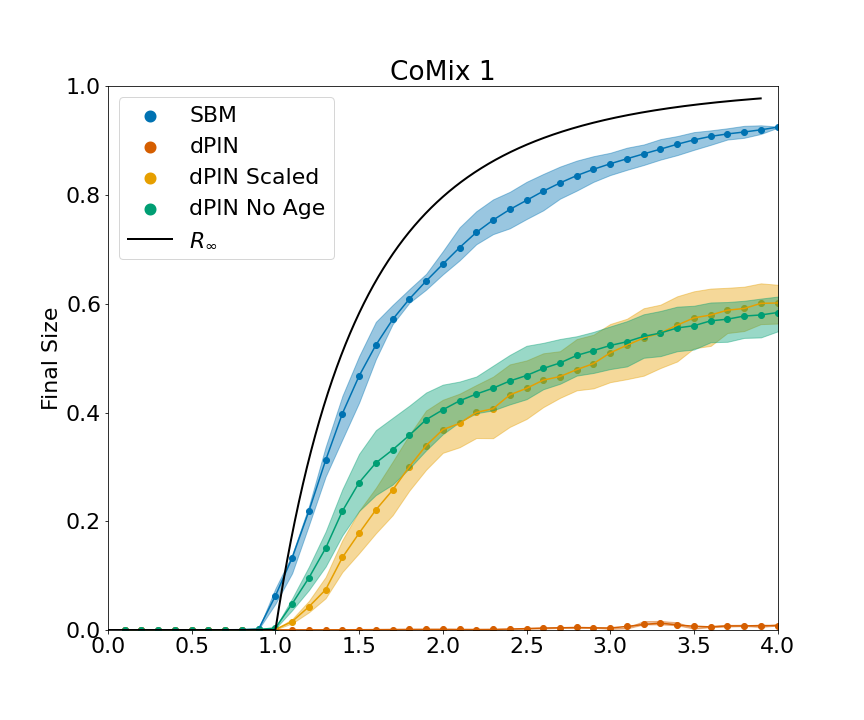
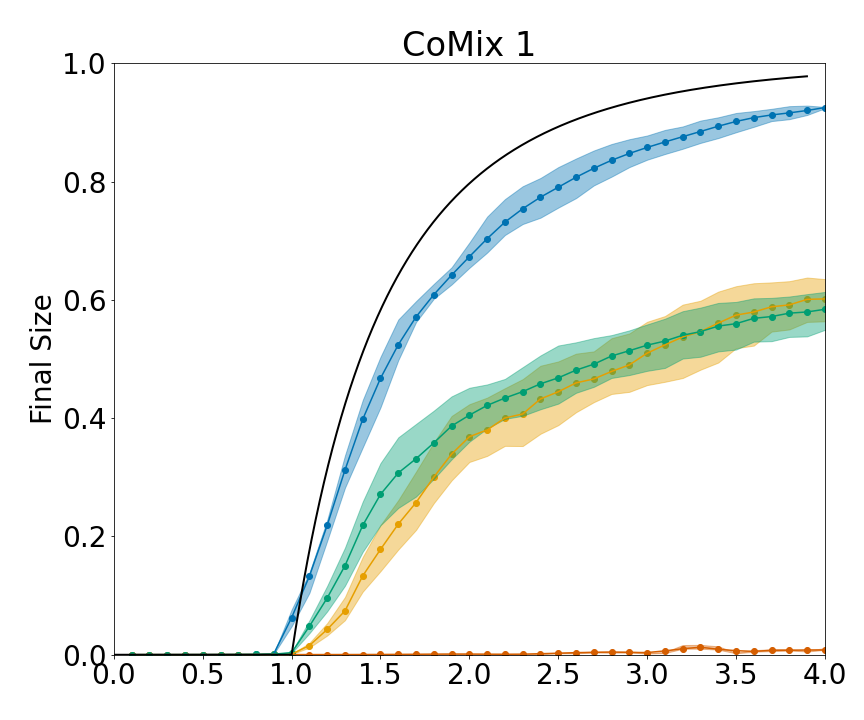
26 no age sims

diff --git a/_final_sellke_noage_c1.py b/_final_sellke_noage_c1.py
@@ -51,10 +51,10 @@ taus = [[np.arange(0.2,0.605,0.005)]]
 # taus = [[np.arange(0.09,0.4,0.005)]]
 # taus = [[np.arange(0.05,0.3,0.005)]]
 
-## sc
-taus = [[[0.0965]]]
-# taus = [[[0.1094]]]
-# taus = [[[0.1932]]]
+# ## sc
+# taus = [[[0.0965]]]
+# # taus = [[[0.1094]]]
+# # taus = [[[0.1932]]]
 
 for i, data in enumerate(datas):
     for j, model in enumerate(models):
@@ -72,7 +72,7 @@ for i, data in enumerate(datas):
         #     result['zeros'].append(len([a for a in network['degrees'] if a == 0]))
         #     result['avg_degree'].append(np.mean([a for a in network['degrees']]))
         #     result['max_degree'].append(max([a for a in network['degrees']]))
-        result = nd_p.big_sellke_sims(partitions=partitions,contact_matrix=contact_matrix,network_params=params,n=n,dist_type=model,num_networks=20,iterations=iters, taus=taus[i][j],prop_infec=10/n, scaling=scales[j],secondary_cases=True)
-        with open(f'../output_data/simulations/big/sellke/SIR/last_4_{data}_{model}_{scales[j]}_noage_sc.json','w') as f:
+        result = nd_p.big_sellke_sims(partitions=partitions,contact_matrix=contact_matrix,network_params=params,n=n,dist_type=model,num_networks=3,iterations=iters, taus=taus[i][j],prop_infec=10/n, scaling=scales[j])
+        with open(f'../output_data/simulations/big/sellke/SIR/26_{data}_{model}_{scales[j]}_noage.json','w') as f:
             json.dump(result, f)
 print('done')

diff --git a/_final_sellke_noage_c2.py b/_final_sellke_noage_c2.py
@@ -51,10 +51,10 @@ scales = ['fit1']
 taus = [[np.arange(0.09,0.4,0.005)]]
 # taus = [[np.arange(0.05,0.3,0.005)]]
 
-## sc
-# taus = [[[0.0965]]]
-taus = [[[0.1094]]]
-# taus = [[[0.1932]]]
+# ## sc
+# # taus = [[[0.0965]]]
+# taus = [[[0.1094]]]
+# # taus = [[[0.1932]]]
 
 for i, data in enumerate(datas):
     for j, model in enumerate(models):
@@ -72,7 +72,7 @@ for i, data in enumerate(datas):
         #     result['zeros'].append(len([a for a in network['degrees'] if a == 0]))
         #     result['avg_degree'].append(np.mean([a for a in network['degrees']]))
         #     result['max_degree'].append(max([a for a in network['degrees']]))
-        result = nd_p.big_sellke_sims(partitions=partitions,contact_matrix=contact_matrix,network_params=params,n=n,dist_type=model,num_networks=20,iterations=iters, taus=taus[i][j],prop_infec=10/n, scaling=scales[j],secondary_cases=True)
-        with open(f'../output_data/simulations/big/sellke/SIR/last_4_{data}_{model}_{scales[j]}_noage5_sc.json','w') as f:
+        result = nd_p.big_sellke_sims(partitions=partitions,contact_matrix=contact_matrix,network_params=params,n=n,dist_type=model,num_networks=3,iterations=iters, taus=taus[i][j],prop_infec=10/n, scaling=scales[j])
+        with open(f'../output_data/simulations/big/sellke/SIR/26_{data}_{model}_{scales[j]}_noage5.json','w') as f:
             json.dump(result, f)
 print('done')

diff --git a/_final_sellke_noage_p.py b/_final_sellke_noage_p.py
@@ -51,10 +51,10 @@ scales = ['fit1']
 # taus = [[np.arange(0.09,0.4,0.005)]]
 taus = [[np.arange(0.05,0.3,0.005)]]
 
-## sc
-# taus = [[[0.0965]]]
-# taus = [[[0.1094]]]
-taus = [[[0.1932]]]
+# ## sc
+# # taus = [[[0.0965]]]
+# # taus = [[[0.1094]]]
+# taus = [[[0.1932]]]
 
 
 for i, data in enumerate(datas):
@@ -74,7 +74,7 @@ for i, data in enumerate(datas):
         #     result['avg_degree'].append(np.mean([a for a in network['degrees']]))
         #     result['max_degree'].append(max([a for a in network['degrees']]))
             
-        result = nd_p.big_sellke_sims(partitions=partitions,contact_matrix=contact_matrix,network_params=params,n=n,dist_type=model,num_networks=20,iterations=iters, taus=taus[i][j],prop_infec=10/n, scaling=scales[j],secondary_cases=True)
-        with open(f'../output_data/simulations/big/sellke/SIR/last_4_{data}_{model}_{scales[j]}_noage_sc.json','w') as f:
+        result = nd_p.big_sellke_sims(partitions=partitions,contact_matrix=contact_matrix,network_params=params,n=n,dist_type=model,num_networks=3,iterations=iters, taus=taus[i][j],prop_infec=10/n, scaling=scales[j])
+        with open(f'../output_data/simulations/big/sellke/SIR/26_{data}_{model}_{scales[j]}_noage.json','w') as f:
             json.dump(result, f)
 print('done')
